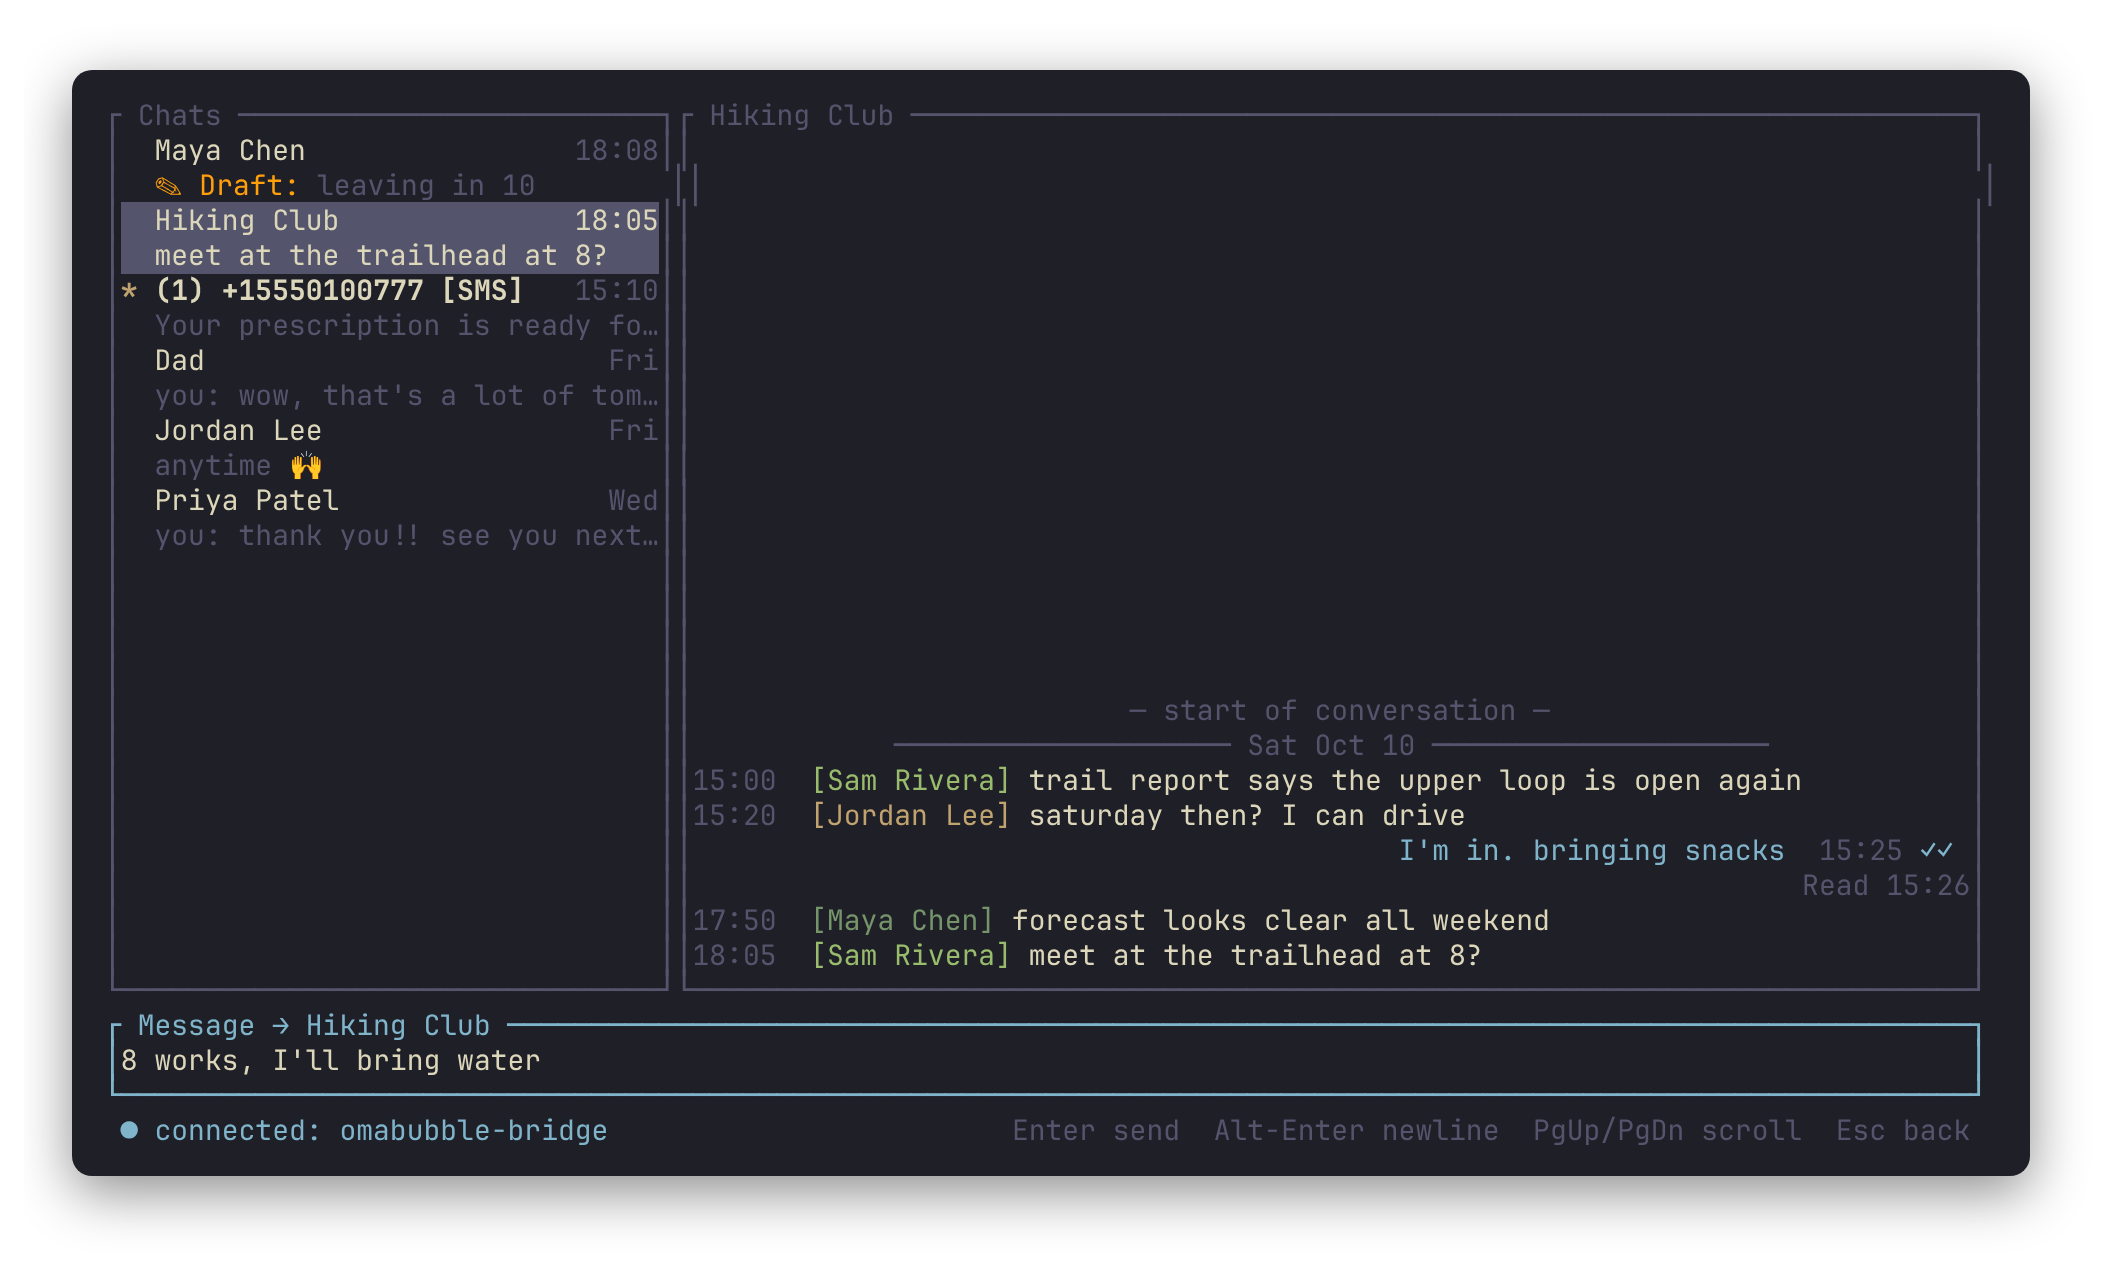
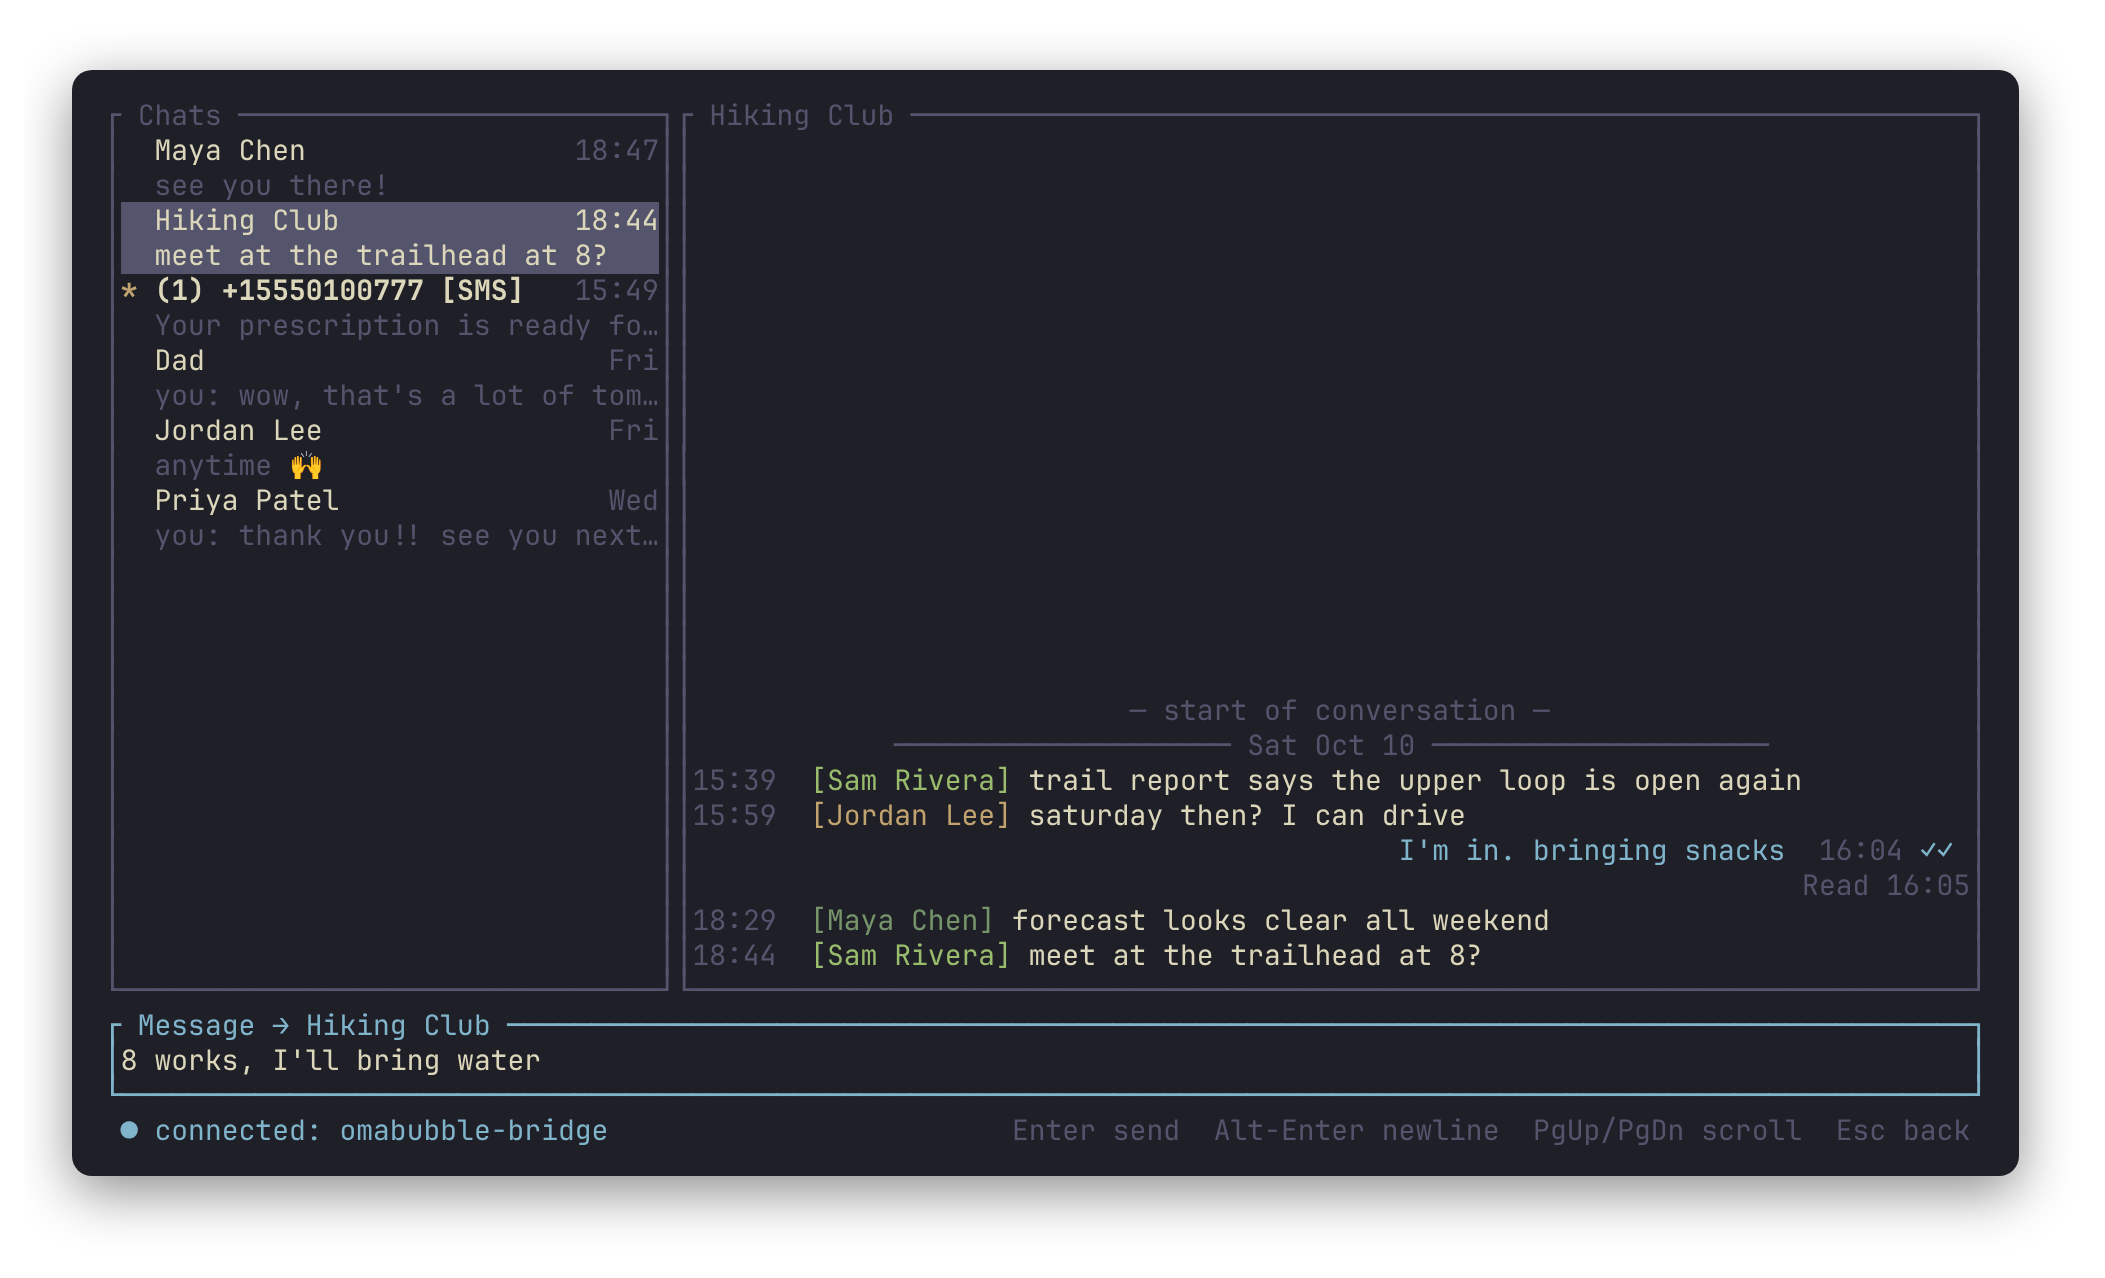
README: setup in order, picture screenshots, and fixes from a read-through
- Requirements, then setup as Mac → restricted SSH key → Linux, adding the
  missing steps: Remote Login, the Command Line Tools and mise, cloning,
  and creating the signing identity before the first install. The SSH
  config example uses placeholders instead of one particular setup.
- Screenshots in a 2×2 grid, adding a photo thumbnail and the full-pane
  viewer. The demo's photos are redrawn by scripts/demo/pictures.py, and
  the picture shots are taken before any drafts exist, since tmux measures
  the draft ✏ at a different width and shifted the borders.
- Limitations says it's sending read receipts that isn't supported (the
  TUI shows received ones); cargo audit is described as a manual check;
  version and release details move under Development.
- The config sample's remote_command example points at /usr/local/bin.

Claude-Session: https://claude.ai/code/session_011ABmGi4G9Pd7yLg83uXyAD

diff --git a/scripts/demo/pictures.py b/scripts/demo/pictures.py
@@ -1,0 +1,85 @@
+"""Draw the demo's two made-up photos with ImageMagick.
+
+    python3 scripts/demo/pictures.py <tomatoes.jpg> <lake.jpg>
+
+Simple shapes and gradients, so they read well even as the TUI's half-block
+thumbnails.
+"""
+
+import subprocess
+import sys
+import tempfile
+from pathlib import Path
+
+
+def magick(*args):
+    subprocess.run(["magick", *map(str, args)], check=True)
+
+
+def tomatoes(out, work):
+    """Dad's tomatoes: ripe fruit hanging among leaves, above the soil."""
+    leaves = [
+        (90, 120, 70, 30, 20), (260, 80, 80, 28, -25), (470, 150, 75, 26, 35),
+        (690, 70, 85, 30, -15), (930, 130, 80, 28, 25), (1110, 90, 70, 26, -30),
+        (150, 300, 85, 30, 15), (380, 250, 70, 24, -35), (620, 230, 80, 28, 20),
+        (1000, 280, 85, 30, -20), (60, 520, 75, 26, 30), (1140, 500, 80, 28, -15),
+        (240, 640, 70, 24, -25), (950, 650, 80, 28, 25),
+    ]
+    fruit = [(330, 430, 80), (570, 360, 72), (800, 460, 82), (480, 590, 70), (710, 620, 74)]
+
+    args = ["-size", "1200x900", "gradient:#8cbf62-#3d6e2f", "-fill", "#4f8a36"]
+    for x, y, rx, ry, angle in leaves:
+        args += ["-draw", f"translate {x},{y} rotate {angle} ellipse 0,0 {rx},{ry} 0,360"]
+    args += ["-stroke", "#3a6a28", "-strokewidth", "9"]
+    for x, y, r in fruit:
+        args += ["-draw", f"line {x},{max(0, y - 380)} {x},{y - r}"]
+    args += ["-stroke", "none", "-blur", "0x2",
+             "-fill", "#6b4a2e", "-draw", "rectangle 0,720 1200,900"]
+    bg = work / "bg.png"
+    magick(*args, bg)
+
+    for x, y, r in fruit:
+        d = r * 2
+        ball = work / f"tomato{r}.png"
+        # Radial shading cut to a circle.
+        magick("-size", f"{d}x{d}", "radial-gradient:#ff7357-#a3170f",
+               "(", "-size", f"{d}x{d}", "xc:black", "-fill", "white",
+               "-draw", f"circle {r},{r} {r},1", ")",
+               "-alpha", "off", "-compose", "copy_opacity", "-composite", ball)
+        hx, hy = x - r // 3, y - r // 3
+        magick(bg, ball, "-geometry", f"+{x - r}+{y - r}", "-composite",
+               "-fill", "#3f7d2c", "-draw", f"ellipse {x},{y - r + 6} {r // 3},{r // 7} 0,360",
+               "-fill", "#ffffff44", "-draw", f"circle {hx},{hy} {hx},{hy - r // 6}", bg)
+    magick(bg, "-quality", "88", out)
+
+
+def lake(out):
+    """Jordan's lake: mountains at sunset over still water."""
+    magick(
+        "-size", "1200x800", "gradient:#6aa9e0-#fbd6a0",
+        "(", "-size", "760x760", "radial-gradient:#fff6d0-#fff6d000", ")",
+        "-geometry", "+360+0", "-composite",
+        "-fill", "#fff8de", "-draw", "circle 740,330 740,288",
+        "-fill", "#7d8fae",
+        "-draw", "polygon 0,500 180,330 320,420 520,240 700,400 880,280 1050,380 1200,320 1200,560 0,560",
+        "-fill", "#eef3fa",
+        "-draw", "polygon 520,240 470,300 505,292 540,312 575,290",
+        "-draw", "polygon 880,280 845,322 880,315 910,330",
+        "-fill", "#4d6a55",
+        "-draw", "polygon 0,560 0,470 140,430 300,480 470,440 650,500 820,450 1000,490 1200,450 1200,560",
+        "(", "-size", "1200x260", "gradient:#4f86b3-#1f4766", ")",
+        "-geometry", "+0+540", "-composite",
+        "-fill", "#2e4a39",
+        "-draw", "polygon 60,545 80,470 100,545", "-draw", "polygon 110,545 135,450 160,545",
+        "-draw", "polygon 1040,545 1065,460 1090,545", "-draw", "polygon 1095,545 1115,480 1135,545",
+        "-fill", "#fff8de66",
+        "-draw", "rectangle 690,580 790,585", "-draw", "rectangle 705,620 775,624",
+        "-draw", "rectangle 720,660 760,663",
+        "-blur", "0x1.2", "-quality", "88", out,
+    )
+
+
+if __name__ == "__main__":
+    with tempfile.TemporaryDirectory() as work:
+        tomatoes(sys.argv[1], Path(work))
+    lake(sys.argv[2])

diff --git a/tui/src/config.rs b/tui/src/config.rs
@@ -9,7 +9,7 @@ pub struct Config {
     pub host: String,
     /// Extra ssh arguments, e.g. ["-p", "2233"].
     pub ssh_args: Vec<String>,
-    /// Remote command, for keys without a forced command, e.g. "/Users/you/.local/bin/omabubble-bridge connect".
+    /// Remote command, for keys without a forced command, e.g. "/usr/local/bin/omabubble-bridge connect".
     pub remote_command: Option<String>,
     /// Run this instead of ssh (local testing).
     pub command: Option<Vec<String>>,
@@ -71,7 +71,7 @@ host = "mac-omabubble"
 # ssh_args = ["-p", "2233"]
 
 # Only needed when the SSH key has no forced command:
-# remote_command = "/Users/you/.local/bin/omabubble-bridge connect"
+# remote_command = "/usr/local/bin/omabubble-bridge connect"
 
 # Prepended to 10-digit numbers typed in the new-conversation popup.
 country_code = "1"

diff --git a/CHANGELOG.md b/CHANGELOG.md
@@ -8,6 +8,12 @@ same one.
 
 ## Unreleased
 
+- The sample config's `remote_command` example points at
+  `/usr/local/bin/omabubble-bridge`, where the bridge is installed.
+- README: setup in order (Mac, SSH key, Linux) with the steps that were
+  missing (Remote Login, the Command Line Tools, the signing identity), and
+  screenshots of pictures in a conversation and in the viewer; the demo's
+  photos are redrawn by `scripts/demo/pictures.py`.
 - Releases go to GitHub Releases, with a Linux build of the TUI and its
   checksum. The bridge isn't published, since it must be signed on your own
   Mac; `install-bridge.sh --release` installs the one `release.sh` built and
